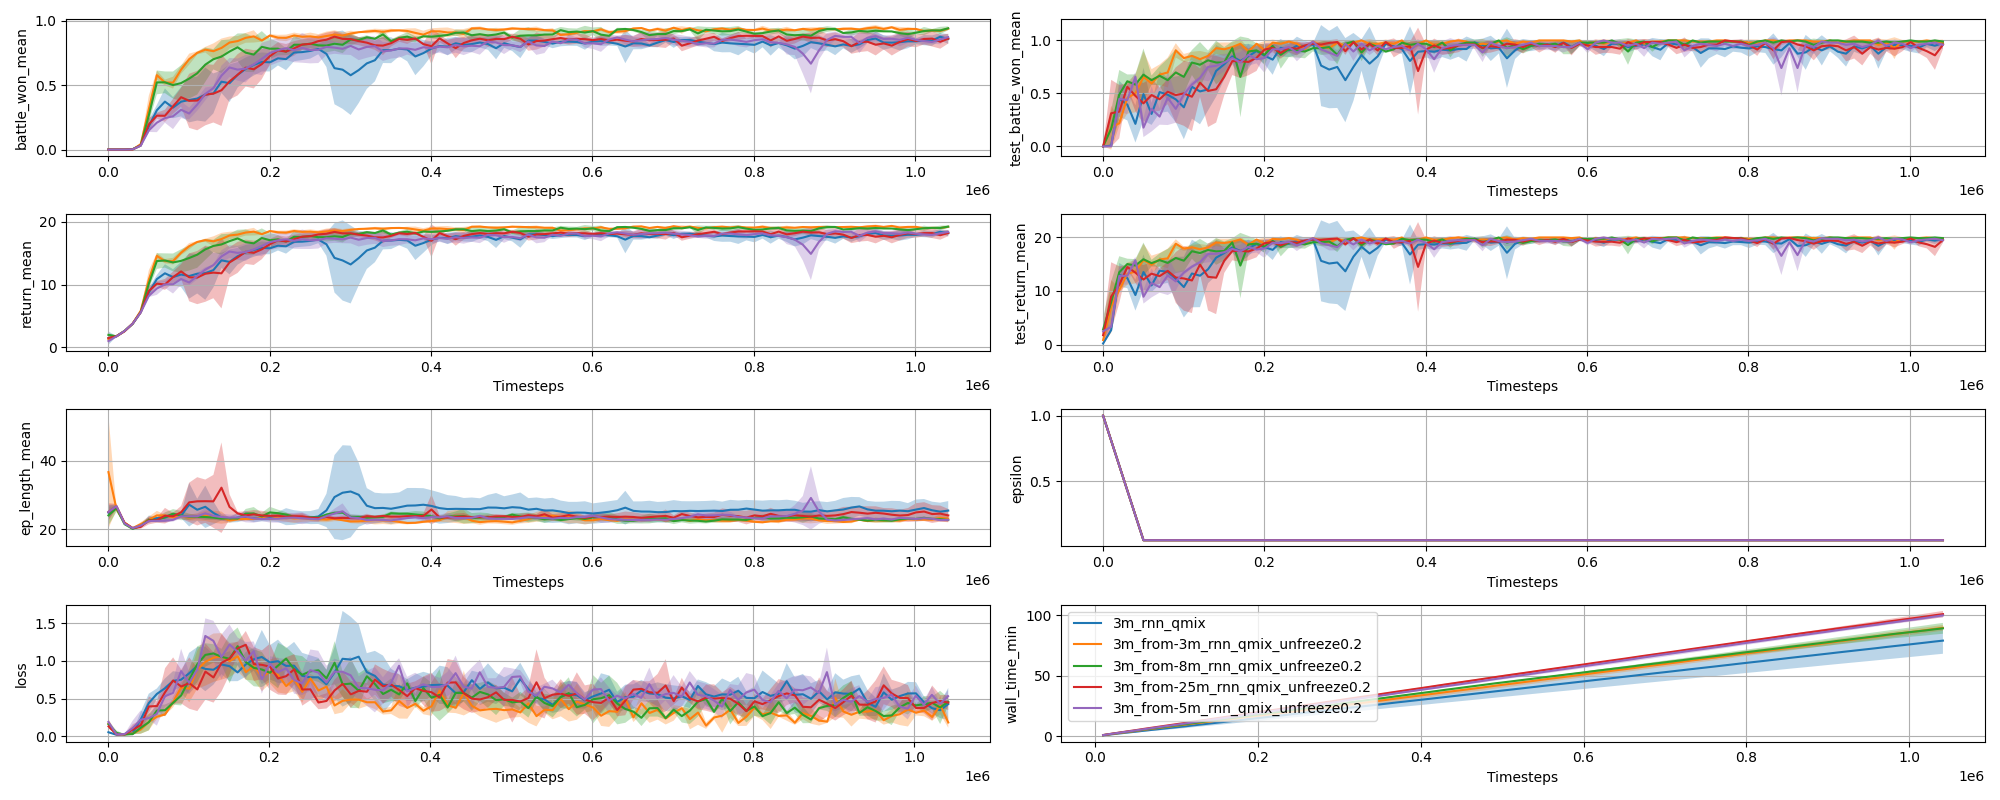
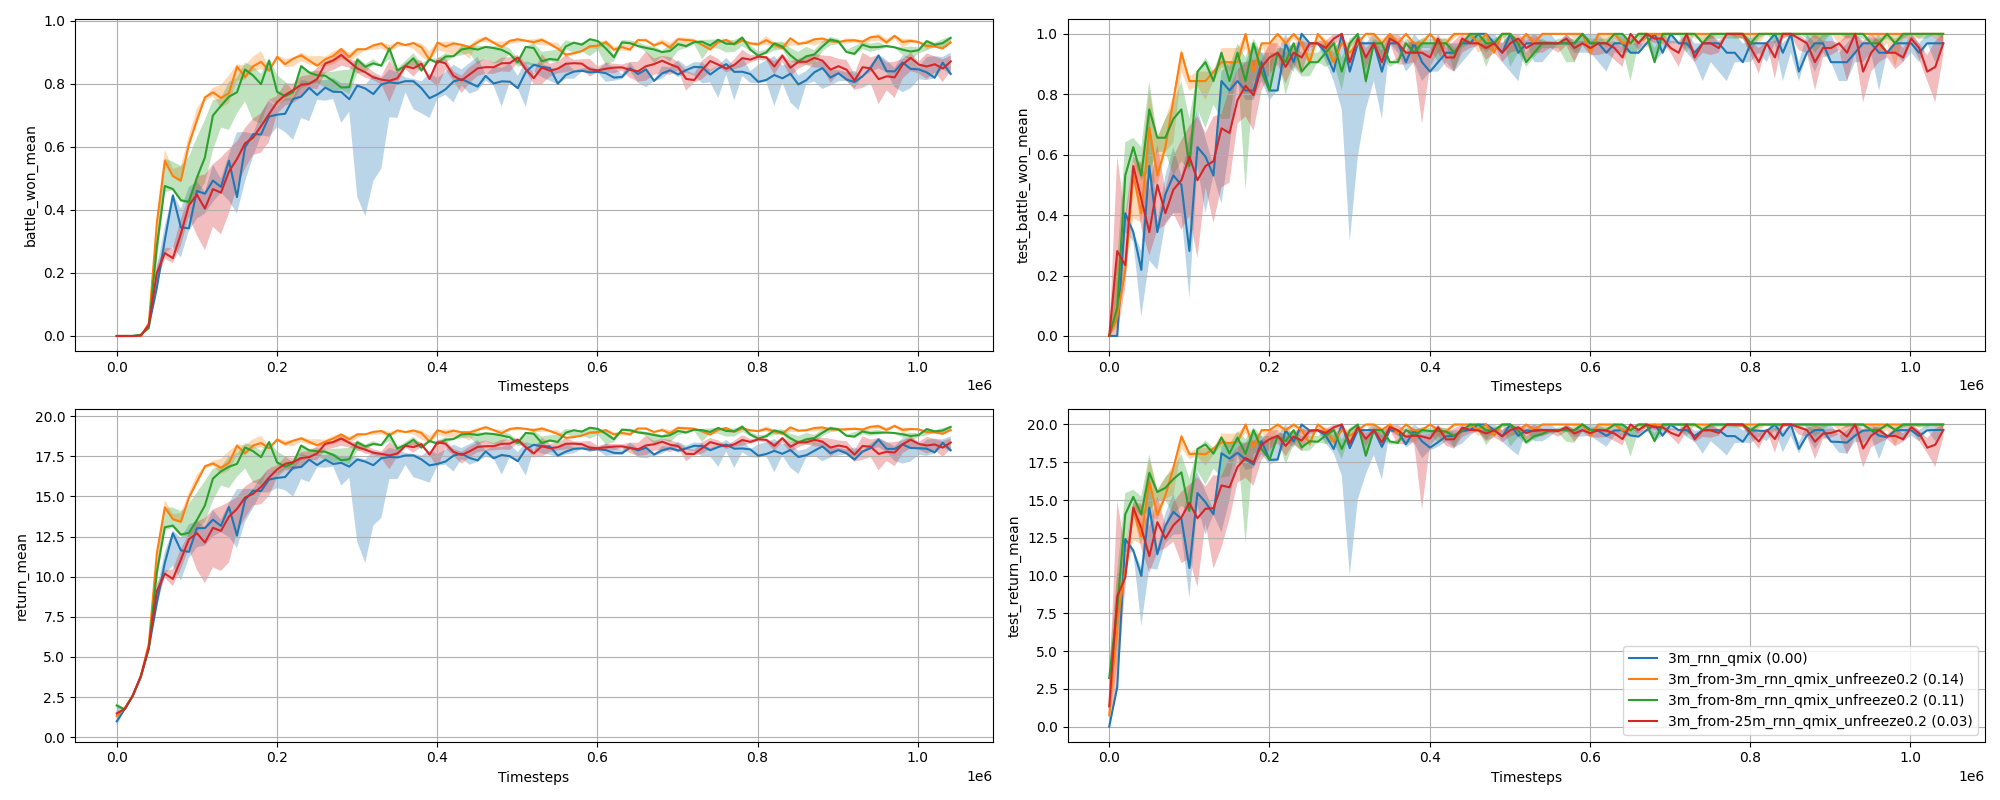
Transfer learning results obtained for 1st progress meeting

diff --git a/research/qmix_tl.py b/research/qmix_tl.py
@@ -2,42 +2,67 @@ from main_plot import generate_training_figure
 
 
 ############ BLOCK 1 ############
-# generate_training_figure(["3m_rnn_qmix", "3m_from-3m_rnn_qmix_unfreeze0.2", "3m_from-8m_rnn_qmix_unfreeze0.2",
-#                           "3m_from-25m_rnn_qmix_unfreeze0.2", "3m_from-5m_rnn_qmix_unfreeze0.2"], label="tl_qmix/3m_rnn_qmix.png", only_last_legend=True)
+generate_training_figure(["3m_rnn_qmix", "3m_from-3m_rnn_qmix_unfreeze0.2", "3m_from-8m_rnn_qmix_unfreeze0.2",
+                          "3m_from-25m_rnn_qmix_unfreeze0.2", 
+                        #   "3m_from-5m_rnn_qmix_unfreeze0.2" # currently it doesnt train properly
+                          ], label="tl_qmix/3m_rnn_qmix.png", 
+                          only_last_legend=True, baseline="3m_rnn_qmix", median=True)
+
+generate_training_figure(["3m_rnn_qmix", "3m_from-2s3z_rnn_qmix_unfreeze0.2", "3m_from-3s_rnn_qmix_unfreeze0.2",
+                          "3m_from-2m_rnn_qmix_unfreeze0.2"], label="tl_qmix/3m_rnn_qmix_ext.png", 
+                          only_last_legend=True, baseline="3m_rnn_qmix", median=True)
+
+generate_training_figure(["8m_rnn_qmix", "8m_from-3m_rnn_qmix_unfreeze0.2", 
+                          "8m_from-8m_rnn_qmix_unfreeze0.2",
+                          "8m_from-25m_rnn_qmix_unfreeze0.2", 
+                        #   "8m_from-5m_rnn_qmix_direct"
+                          ], 
+                          label="tl_qmix/8m_rnn_qmix.png", only_last_legend=True, baseline="8m_rnn_qmix", median=True)
 
 
-# generate_training_figure(["8m_rnn_qmix", "8m_from-3m_rnn_qmix_unfreeze0.2", "8m_from-8m_rnn_qmix_unfreeze0.2",
-#                           "8m_from-25m_rnn_qmix_unfreeze0.2", "8m_from-5m_rnn_qmix_direct"], label="tl_qmix/8m_rnn_qmix.png", only_last_legend=True)
+generate_training_figure(["25m_rnn_qmix", "25m_from-3m_rnn_qmix_unfreeze0.2", "25m_from-8m_rnn_qmix_unfreeze0.2",
+                          "25m_from-25m_rnn_qmix_direct", 
+                        #   "25m_from-25m_rnn_qmix_unfreeze0.2",
+                        #   "25m_from-5m_rnn_qmix_direct"
+                          ], label="tl_qmix/25m_rnn_qmix.png", only_last_legend=True, baseline="25m_rnn_qmix", median=True)
 
-# generate_training_figure(["25m_rnn_qmix", "25m_from-3m_rnn_qmix_unfreeze0.2", "25m_from-8m_rnn_qmix_unfreeze0.2",
-#                           "25m_from-25m_rnn_qmix_unfreeze0.2", "25m_from-5m_rnn_qmix_direct"], label="tl_qmix/25m_rnn_qmix.png", only_last_legend=True)
 
-# generate_training_figure(["5m_vs_6m_rnn_qmix", "5m_vs_6m_rnn_qmix_ext", "5m_vs_6m_from-3m_rnn_qmix_direct", "5m_vs_6m_from-3m_rnn_qmix_unfreeze0.2", 
-#                           "5m_vs_6m_from-8m_rnn_qmix_unfreeze0.2",
-#                           "5m_vs_6m_from-25m_rnn_qmix_unfreeze0.2", "5m_vs_6m_from-5m_rnn_qmix_unfreeze0.2",
-#                           ], label="tl_qmix/5m_vs_6m_rnn_qmix.png", only_last_legend=True)
+generate_training_figure(["5m_vs_6m_rnn_qmix", "5m_vs_6m_rnn_qmix_ext", "5m_vs_6m_from-3m_rnn_qmix_unfreeze0.2", 
+                          "5m_vs_6m_from-8m_rnn_qmix_unfreeze0.2",
+                          "5m_vs_6m_from-25m_rnn_qmix_unfreeze0.2", "5m_vs_6m_from-5m_rnn_qmix_unfreeze0.2",
+                          ], label="tl_qmix/5m_vs_6m_rnn_qmix.png", 
+                          only_last_legend=True, baseline="5m_vs_6m_rnn_qmix", median=True)
+
 
 
 ############ BLOCK 2 ############
-# generate_training_figure(["2s3z_rnn_qmix", "2s3z_from-3m_rnn_qmix_unfreeze0.2", "2s3z_from-3s5z_rnn_qmix_unfreeze0.2",
-#                           ], label="tl_qmix/2s3z_rnn_qmix.png", only_last_legend=True)
+generate_training_figure(["2s3z_rnn_qmix", "2s3z_from-3m_rnn_qmix_unfreeze0.2", "2s3z_from-3s5z_rnn_qmix_unfreeze0.2",
+                          ], label="tl_qmix/2s3z_rnn_qmix.png", only_last_legend=True, 
+                          baseline="2s3z_rnn_qmix", median=True)
 
-# generate_training_figure(["3s5z_rnn_qmix", "2s3z_from-3s5z_rnn_qmix_unfreeze0.2",
-#                           ], label="tl_qmix/3s5z_rnn_qmix.png", only_last_legend=True)
+generate_training_figure(["3s5z_rnn_qmix", "3s5z_from-2s3z_rnn_qmix_unfreeze0.2",
+                          ], label="tl_qmix/3s5z_rnn_qmix.png", 
+                          only_last_legend=True, baseline="3s5z_rnn_qmix", median=True)
 
 ############ BLOCK 3 ############
 
-# generate_training_figure(["3s_vs_3z_rnn_qmix", "3s_vs_3z_from-3m_rnn_qmix_unfreeze0.2", "3s_vs_3z_from-3s_rnn_qmix_unfreeze0.2",
-#                           ], label="tl_qmix/3s_vs_3z_rnn_qmix.png", only_last_legend=True)
+generate_training_figure(["3s_vs_3z_rnn_qmix", "3s_vs_3z_from-3m_rnn_qmix_unfreeze0.2", "3s_vs_3z_from-3s_rnn_qmix_unfreeze0.2",
+                          ], label="tl_qmix/3s_vs_3z_rnn_qmix.png", 
+                          only_last_legend=True, baseline="3s_vs_3z_rnn_qmix", median=True)
 
-generate_training_figure(["3s_vs_4z_rnn_qmix", "3s_vs_4z_from-3s_rnn_qmix_unfreeze0.2",
-                          ], label="tl_qmix/3s_vs_4z_rnn_qmix.png", only_last_legend=True)
+generate_training_figure(["3s_vs_4z_rnn_qmix", 
+                        #   "3s_vs_4z_from-3s_rnn_qmix_direct", 
+                          "3s_vs_4z_from-3s_rnn_qmix_unfreeze0.2",
+                          ], label="tl_qmix/3s_vs_4z_rnn_qmix.png", 
+                          only_last_legend=True, baseline="3s_vs_4z_rnn_qmix", median=True)
 
 
 ############ BLOCK 4 ############
-# generate_training_figure(["2m_vs_1z_rnn_qmix", "2m_vs_1z_from-3m_rnn_qmix_unfreeze0.2",
-#                           ], label="tl_qmix/2m_vs_1z_rnn_qmix.png", only_last_legend=True)
+generate_training_figure(["2m_vs_1z_rnn_qmix", "2m_vs_1z_from-3m_rnn_qmix_unfreeze0.2",
+                          ], label="tl_qmix/2m_vs_1z_rnn_qmix.png", 
+                          only_last_legend=True, baseline="2m_vs_1z_rnn_qmix", median=True)
 
 ############ BLOCK 5 ############
-# generate_training_figure(["6h_vs_8z_rnn_qmix", "6h_vs_8z_rnn_qmix_ext", "6h_vs_8z_from-2m_rnn_qmix_direct", 
-#                           "6h_vs_8z_from-3s_rnn_qmix_direct"], label="tl_qmix/6h_vs_8z_rnn_qmix.png", only_last_legend=True)
+generate_training_figure(["6h_vs_8z_rnn_qmix", "6h_vs_8z_rnn_qmix_ext", "6h_vs_8z_from-2m_rnn_qmix_direct", 
+                          "6h_vs_8z_from-3s_rnn_qmix_direct"], 
+                          label="tl_qmix/6h_vs_8z_rnn_qmix.png", only_last_legend=True, median=True)

diff --git a/research/tl_metrics.py b/research/tl_metrics.py
@@ -1,30 +1,35 @@
 import numpy as np
-from scipy.integrate import trapezoid
-from plt_tools import include_plot, load_data
+from scipy.integrate import trapezoid, cumulative_trapezoid
+from plt_tools import load_data
 
-REG_methods = {"trapezoid": trapezoid}
+REG_methods = {"trapezoid": trapezoid, "cumulative_trapezoid": cumulative_trapezoid}
 
 
 def calculate_auc(model:str,
                   variable:str="battle_won_mean", # variable to calculate the AUC for
-                  method:str = "trapezoid"
+                  method:str = "cumulative_trapezoid",
+                  median:bool=False
                   ):
     
-    data = load_data(model)
+    data = load_data(model, median=median)
 
     if variable not in data: raise ValueError(f"Variable {variable} not found in data for model {model}")
 
-    AUC_val = REG_methods[method](data[variable + "_avg"])
+    if median:
+        AUC_val = REG_methods[method](data[variable + "_median"], x=data[variable + "_T"])
+    else:
+        AUC_val = REG_methods[method](data[variable + "_avg"], x=data[variable + "_T"])
 
     return AUC_val
 
 
-def auc_ratio(source:str, targets:list, variable:str="battle_won_mean", method:str = "trapezoid", print_results:bool = True):
-    AUC_source = calculate_auc(source, variable, method)
+def auc_ratio(source:str, targets:list, variable:str="battle_won_mean", method:str = "trapezoid", 
+              print_results:bool = True, median:bool=False):
+    AUC_source = calculate_auc(source, variable, method, median=median)
 
     AUC_ratios = []
     for target in targets:
-        AUC_target = calculate_auc(target, variable, method)
+        AUC_target = calculate_auc(target, variable, method, median=median)
         AUC_ratios.append((AUC_target - AUC_source) / AUC_target)
 
     if print_results:
@@ -35,24 +40,6 @@ def auc_ratio(source:str, targets:list, variable:str="battle_won_mean", method:s
 
     return AUC_ratios
 
-
-
-ratios = auc_ratio("qmix_3m_baseline", 
-                   ["qmix_3m_to_3m_direct", "qmix_3m_to_3m_grad_unfreeze_05"],
-           "battle_won_mean", "trapezoid") 
-
-# ratios = auc_ratio("qmix_8m_baseline", 
-#                    ["qmix_3m_to_3m_direct", "qmix_3m_to_3m_grad_unfreeze_05"],
-#            "battle_won_mean", "trapezoid") 
-
-
-ratios = auc_ratio("qmix_3m_baseline", 
-                   ["qmix_8m_to_3m_direct", 
-                    "qmix_8m_to_3m_grad_unfreeze_02",
-                    "qmix_8m_to_3m_grad_unfreeze_05",
-                    "qmix_8m_to_3m_grad_unfreeze_inf",
-                    ],
-           "battle_won_mean", "trapezoid") 
 
 
 

diff --git a/research/main_plot.py b/research/main_plot.py
@@ -1,18 +1,40 @@
 import matplotlib.pyplot as plt
 import numpy as np
-from plt_tools import include_plot, load_data
+from plt_tools import include_plot_mean, include_plot_median, load_data
+from tl_metrics import auc_ratio
 
-def generate_training_figure(models:list, label:str, only_last_legend:bool=False):
-    fig, axes = plt.subplots(4, 2, figsize=(20, 8))
-    variables = ['battle_won_mean', 'test_battle_won_mean', 'return_mean', 'test_return_mean', 'ep_length_mean', 'epsilon', 'loss', 'wall_time_min']
+
+def generate_training_figure(models:list, label:str, only_last_legend:bool=False, baseline:str=None, median:bool=False):
+    fig, axes = plt.subplots(2, 2, figsize=(20, 8))
+    variables = ['battle_won_mean', 'test_battle_won_mean', 'return_mean', 'test_return_mean', 
+                #  'ep_length_mean', 'epsilon', 'loss', 'wall_time_min'
+                 ]
+
+    data_list = []; ratios_auc = []
+    for model in models:
+        data_list.append(load_data(model, median=median))
+
+        if baseline:
+            ratios_auc.append(auc_ratio(baseline, [model], "battle_won_mean", "trapezoid", median=median)[0])
+
     
     for i, variable in enumerate(variables):
         ax = axes[i // 2, i % 2]
-        for model in models:
-            data = load_data(model)
 
-            if variable in data:
-                include_plot(ax, data[variable + '_T'], data[variable + "_avg"], data[variable + "_std"], label=model)
+        for ii in range(len(models)):
+            if variable in data_list[ii]:
+                label_plot = models[ii] + f" ({ratios_auc[ii]:.2f})" if baseline else models[ii]
+
+                if median:
+                    include_plot_median(ax, data_list[ii][variable + '_T'], 
+                                 data_list[ii][variable + "_median"], 
+                                 data_list[ii][variable + "_p25"],
+                                  data_list[ii][variable + "_p75"], label=label_plot)
+                else:
+                    include_plot_mean(ax, data_list[ii][variable + '_T'], 
+                                 data_list[ii][variable + "_avg"], 
+                                 data_list[ii][variable + "_std"], label=label_plot)
+                
         ax.grid()
         ax.set_xlabel('Timesteps')
         ax.set_ylabel(variable)

diff --git a/research/plt_tools.py b/research/plt_tools.py
@@ -4,11 +4,19 @@ import matplotlib.pyplot as plt
 import numpy as np
 
 
-def include_plot(axes, x, y_avg, y_std=[], label=""):
+def include_plot_mean(axes, x, y_avg, y_std=[], label=""):
     axes.plot(x, y_avg, label=label)
 
     if len(y_std):
         axes.fill_between(x, y_avg - np.array(y_std), y_avg + np.array(y_std), alpha=0.3)
+
+
+def include_plot_median(axes, x, y_med, y_p25=[], y_p75=[], label=""):
+    axes.plot(x, y_med, label=label)
+
+    if len(y_p25):
+        axes.fill_between(x, y_p25, y_p75, alpha=0.3)
+
 
         
 def are_same_timesteps(ts1, ts2, tolerance:int=100) -> bool:
@@ -30,7 +38,7 @@ def to_numeric_list(input: list) -> list:
         return input
     
 
-def load_data(model:str):
+def load_data(model:str, median:bool=False):
     variables = ['battle_won_mean', 'test_battle_won_mean', 'return_mean', 'test_return_mean',
                  'ep_length_mean', 'epsilon', 'loss', 'q_taken_mean', 'wall_time_min']
     data = {}
@@ -55,7 +63,14 @@ def load_data(model:str):
             min_length = min(len(arr) for arr in data[variable])
             data[variable] = np.array([arr[:min_length] for arr in data[variable]])
             data[variable + "_T"] = data[variable + "_T"][:min_length]
-            data[variable + "_avg"] = np.average(data[variable], axis=0)
-            data[variable + "_std"] = np.std(data[variable], axis=0)
+            
+            if median:
+                data[variable + "_median"] = np.median(data[variable], axis=0)
+
+                data[variable + "_p25"] = np.percentile(data[variable], 25, axis=0)
+                data[variable + "_p75"] = np.percentile(data[variable], 75, axis=0)
+            else:
+                data[variable + "_avg"] = np.average(data[variable], axis=0)
+                data[variable + "_std"] = np.std(data[variable], axis=0)
 
     return data
